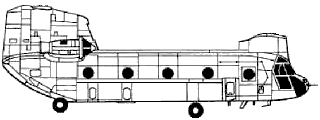
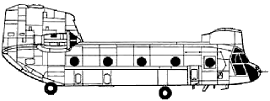
ac130 propellers + ch47 resize + ltl refactoring

diff --git a/shilka2/MainWindow.xaml b/shilka2/MainWindow.xaml
@@ -12,8 +12,8 @@
                 <Image Source="images/background.png" Width="{Binding Path=ActualWidth, ElementName=gridFirePlace}" Height="{Binding Path=ActualHeight, ElementName=gridFirePlace}" Stretch="Fill" Canvas.Top="52"/>
             </Canvas>
             <Button x:Name="closeButton" Content="✖" HorizontalAlignment="Left" Height="23" Margin="10,15,0,0" VerticalAlignment="Top" Width="30" Click="closeButton_Click"/>
-            <Image x:Name="RadarImg" Source="images/radar.png" HorizontalAlignment="Left" Height="33" Margin="47,173,0,0" VerticalAlignment="Top" Width="25"/>
-            <Image x:Name="ShilkaImg" HorizontalAlignment="Left" Height="111" Margin="237,10,0,0" VerticalAlignment="Top" Width="185" Source="images/shilka.png"/>
+            <Image x:Name="RadarImg" Source="images/radar.png" HorizontalAlignment="Left" Height="33" Margin="10,103,0,0" VerticalAlignment="Top" Width="25"/>
+            <Image x:Name="ShilkaImg" HorizontalAlignment="Left" Height="111" Margin="57,10,0,0" VerticalAlignment="Top" Width="185" Source="images/shilka.png"/>
             <Image x:Name="HandImg" HorizontalAlignment="Left" Height="231" Margin="237,155,-176,-249" VerticalAlignment="Top" Width="520" Source="images/hand.png"/>
             <Label x:Name="statShells" HorizontalAlignment="Left" Height="183" Margin="45,10,0,0" VerticalAlignment="Top" Width="450"/>
             <ToggleButton x:Name="pauseButton" Content="❚❚" HorizontalAlignment="Left" Height="23" Margin="10,43,0,0" VerticalAlignment="Top" Width="30" Click="pauseButton_Click"/>

diff --git a/shilka2/classes/Aircraft.cs b/shilka2/classes/Aircraft.cs
@@ -181,6 +181,108 @@ namespace shilka2
             return inList;
         }
 
+        static ImageSource imageFromResources(string imageName)
+        {
+            return new BitmapImage(new Uri("images/" + imageName + ".png", UriKind.Relative)) { };
+        }
+
+        static void createNewAircraft(string aircraftType, int hitPoint, int aircraftWidth, int aircraftHeight,
+            string aircraftName = "", int speed = 10, int minAltitude = -1, int maxAltitude = -1, bool friend = false,
+            bool airliner = false, bool cloud = false, bool cantEscape = false, int price = 0)
+        {
+            List<DynamicElement> elements = new List<DynamicElement>();
+
+            createNewAircraft(aircraftType, hitPoint, aircraftWidth, aircraftHeight, elements, aircraftName,
+                speed, minAltitude, maxAltitude, friend, airliner, cloud, cantEscape, price);
+        }
+
+        static void createNewAircraft(string aircraftType, int hitPoint, int aircraftWidth, int aircraftHeight,
+            List<DynamicElement> elements, string aircraftName = "", int speed = 10, int minAltitude = -1,
+            int maxAltitude = -1, bool friend = false, bool airliner = false, bool cloud = false,
+            bool cantEscape = false, int price = 0)
+        {
+            Application.Current.Dispatcher.BeginInvoke(new ThreadStart(delegate
+            {
+                MainWindow main = (MainWindow)Application.Current.MainWindow;
+
+                Image newAircraftImage = new Image();
+
+                newAircraftImage.Width = aircraftWidth;
+                newAircraftImage.Height = aircraftHeight;
+
+                Aircraft newAircraft = new Aircraft();
+
+                newAircraft.y = rand.Next(maxAltitudeGlobal, minAltitudeGlobal);
+
+                if (rand.Next(2) == 1)
+                {
+                    newAircraft.flightDirection = FlightDirectionType.Right;
+                    newAircraft.x = -1 * newAircraftImage.Width;
+                }
+                else
+                {
+                    newAircraft.flightDirection = FlightDirectionType.Left;
+                    newAircraft.x = Application.Current.MainWindow.Width;
+                }
+
+                newAircraftImage.Source = imageFromResources(aircraftType);
+
+                if (((newAircraft.flightDirection == FlightDirectionType.Left) && !cloud) || (rand.Next(2) == 1) && cloud)
+                    newAircraftImage.FlowDirection = FlowDirection.RightToLeft;
+
+                newAircraftImage.Margin = new Thickness(newAircraft.x, newAircraft.y, 0, 0);
+
+                foreach (DynamicElement d in elements)
+                {
+                    d.element = new Image();
+                    d.element.Source = imageFromResources(d.elementName);
+
+                    if (newAircraft.flightDirection == FlightDirectionType.Right)
+                        d.element.FlowDirection = FlowDirection.RightToLeft;
+
+                    if (d.movingType == DynamicElement.MovingType.xRotate)
+                        d.rotateDegreeCurrent = 1;
+
+                    newAircraft.dynamicElemets.Add(d);
+
+                    if ((newAircraft.flightDirection == FlightDirectionType.Right) && d.movingType != DynamicElement.MovingType.yRotate)
+                        Canvas.SetZIndex(d.element, 40);
+                    else
+                        Canvas.SetZIndex(d.element, 60);
+
+                    main.firePlace.Children.Add(d.element);
+                }
+
+                newAircraft.aircraftType = aircraftType;
+                newAircraft.aircraftName = aircraftName;
+                newAircraft.hitpoint = hitPoint;
+                newAircraft.hitpointMax = hitPoint;
+                newAircraft.price = price;
+                newAircraft.speed = speed;
+                newAircraft.minAltitude = minAltitude;
+                newAircraft.maxAltitude = maxAltitude;
+                newAircraft.friend = friend;
+                newAircraft.airliner = airliner;
+                newAircraft.cloud = cloud;
+                newAircraft.cantEscape = cantEscape;
+                newAircraft.fly = true;
+
+                if (newAircraft.minAltitude == -1) newAircraft.minAltitude = minAltitudeGlobal;
+
+                if (!friend && !airliner)
+                {
+                    Shilka.statisticAllAircraft++;
+                    Shilka.statisticPriceOfAllAircrafts += price;
+                }
+
+                Canvas.SetZIndex(newAircraftImage, (cloud ? 100 : 50));
+
+                newAircraft.aircraftImage = newAircraftImage;
+                main.firePlace.Children.Add(newAircraftImage);
+                aircrafts.Add(newAircraft);
+            }));
+        }
+
         public static void AircraftStart(object obj, ElapsedEventArgs e)
         {
             int newAircraft = rand.Next(15)+1;
@@ -440,7 +542,16 @@ namespace shilka2
                                 price: 190,
                                 speed: 7,
                                 minAltitude: minAltitudeForLargeAircraft,
-                                cantEscape: true
+                                cantEscape: true,
+                                elements: new List<DynamicElement> {
+                                    new DynamicElement {
+                                        elementName = "air_prop",
+                                        y = 50,
+                                        x_left = 105,
+                                        x_right = 275,
+                                        movingType = DynamicElement.MovingType.yRotate
+                                    }
+                                }
                             ); break;
                         case 23:
                             createNewAircraft(
@@ -679,24 +790,24 @@ namespace shilka2
                                 aircraftType: "ch47",
                                 aircraftName: "CH-47 Chinook",
                                 hitPoint: 80,
-                                aircraftWidth: 320,
-                                aircraftHeight: 120,
+                                aircraftWidth: 270,
+                                aircraftHeight: 101,
                                 speed: 5,
                                 maxAltitude: maxAltitudeForHelicopters,
                                 price: 29,
                                 elements: new List<DynamicElement> {
                                     new DynamicElement {
                                         elementName = "prop_main",
-                                        y = 8,
-                                        x_left = -62,
-                                        x_right = 155,
+                                        y = 6,
+                                        x_left = -68,
+                                        x_right = 110,
                                         movingType = DynamicElement.MovingType.xRotate,
                                     },
                                     new DynamicElement {
                                         elementName = "prop_main",
                                         y = -20,
-                                        x_left = 165,
-                                        x_right = -70,
+                                        x_left = 125,
+                                        x_right = -78,
                                         movingType = DynamicElement.MovingType.xRotate,
                                     },
                                 }
@@ -987,110 +1098,7 @@ namespace shilka2
                             ); break;
                     }
                     break;
-
             }
-        }
-
-        static ImageSource imageFromResources(string imageName)
-        {
-            return new BitmapImage(new Uri("images/" + imageName + ".png", UriKind.Relative)) { };
-        }
-
-        static void createNewAircraft(string aircraftType, int hitPoint, int aircraftWidth, int aircraftHeight,
-            string aircraftName = "", int speed = 10, int minAltitude = -1, int maxAltitude = -1, bool friend = false,
-            bool airliner = false, bool cloud = false, bool cantEscape = false, int price = 0)
-        {
-            List<DynamicElement> elements = new List<DynamicElement>();
-
-            createNewAircraft(aircraftType, hitPoint, aircraftWidth, aircraftHeight, elements, aircraftName,
-                speed, minAltitude, maxAltitude, friend, airliner, cloud, cantEscape, price);
-        }
-
-        static void createNewAircraft(string aircraftType, int hitPoint, int aircraftWidth, int aircraftHeight,
-            List<DynamicElement> elements, string aircraftName = "", int speed = 10, int minAltitude = -1,
-            int maxAltitude = -1, bool friend = false, bool airliner = false, bool cloud = false,
-            bool cantEscape = false, int price = 0)
-        {
-            Application.Current.Dispatcher.BeginInvoke(new ThreadStart(delegate
-            {
-                MainWindow main = (MainWindow)Application.Current.MainWindow;
-
-                Image newAircraftImage = new Image();
-
-                newAircraftImage.Width = aircraftWidth;
-                newAircraftImage.Height = aircraftHeight;
-
-                Aircraft newAircraft = new Aircraft();
-
-                newAircraft.y = rand.Next(maxAltitudeGlobal, minAltitudeGlobal);
-
-                if (rand.Next(2) == 1)
-                {
-                    newAircraft.flightDirection = FlightDirectionType.Right;
-                    newAircraft.x = -1 * newAircraftImage.Width;
-                }
-                else
-                {
-                    newAircraft.flightDirection = FlightDirectionType.Left;
-                    newAircraft.x = Application.Current.MainWindow.Width;
-                }
-
-                newAircraftImage.Source = imageFromResources(aircraftType);
-
-                if ( ( (newAircraft.flightDirection == FlightDirectionType.Left) && !cloud ) || (rand.Next(2) == 1) && cloud )
-                    newAircraftImage.FlowDirection = FlowDirection.RightToLeft;
-
-                newAircraftImage.Margin = new Thickness(newAircraft.x, newAircraft.y, 0, 0);
-
-                foreach (DynamicElement d in elements)
-                {
-                    d.element = new Image();
-                    d.element.Source = imageFromResources(d.elementName);
-
-                    if (newAircraft.flightDirection == FlightDirectionType.Right)
-                        d.element.FlowDirection = FlowDirection.RightToLeft;
-
-                    if (d.movingType == DynamicElement.MovingType.xRotate)
-                        d.rotateDegreeCurrent = 1;
-
-                    newAircraft.dynamicElemets.Add(d);
-
-                    if ((newAircraft.flightDirection == FlightDirectionType.Right) && d.movingType != DynamicElement.MovingType.yRotate)
-                        Canvas.SetZIndex(d.element, 40);
-                    else
-                        Canvas.SetZIndex(d.element, 60);
-
-                    main.firePlace.Children.Add(d.element);
-                }
-
-                newAircraft.aircraftType = aircraftType;
-                newAircraft.aircraftName = aircraftName;
-                newAircraft.hitpoint = hitPoint;
-                newAircraft.hitpointMax = hitPoint;
-                newAircraft.price = price;
-                newAircraft.speed = speed;
-                newAircraft.minAltitude = minAltitude;
-                newAircraft.maxAltitude = maxAltitude;
-                newAircraft.friend = friend;
-                newAircraft.airliner = airliner;
-                newAircraft.cloud = cloud;
-                newAircraft.cantEscape = cantEscape;
-                newAircraft.fly = true;
-
-                if (newAircraft.minAltitude == -1) newAircraft.minAltitude = minAltitudeGlobal;
-
-                if (!friend && !airliner)
-                {
-                    Shilka.statisticAllAircraft++;
-                    Shilka.statisticPriceOfAllAircrafts += price;
-                }
-
-                Canvas.SetZIndex(newAircraftImage, ( cloud ? 100 : 50) );
-
-                newAircraft.aircraftImage = newAircraftImage;
-                main.firePlace.Children.Add(newAircraftImage);
-                aircrafts.Add(newAircraft);
-            }));
         }
     }
 }
